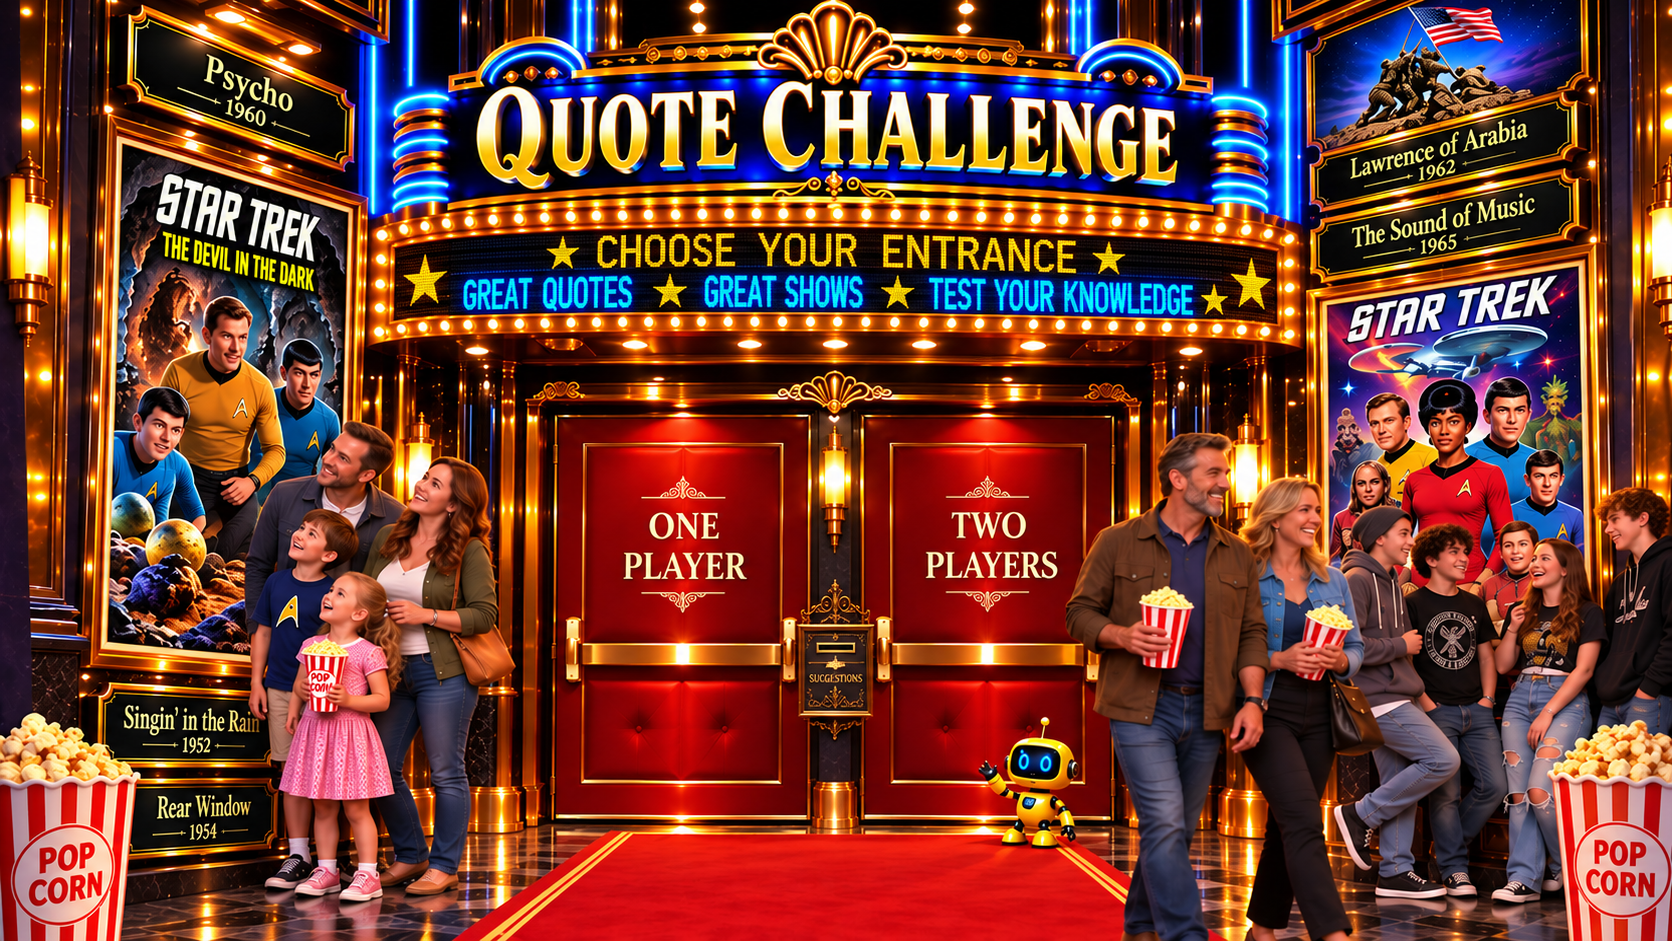
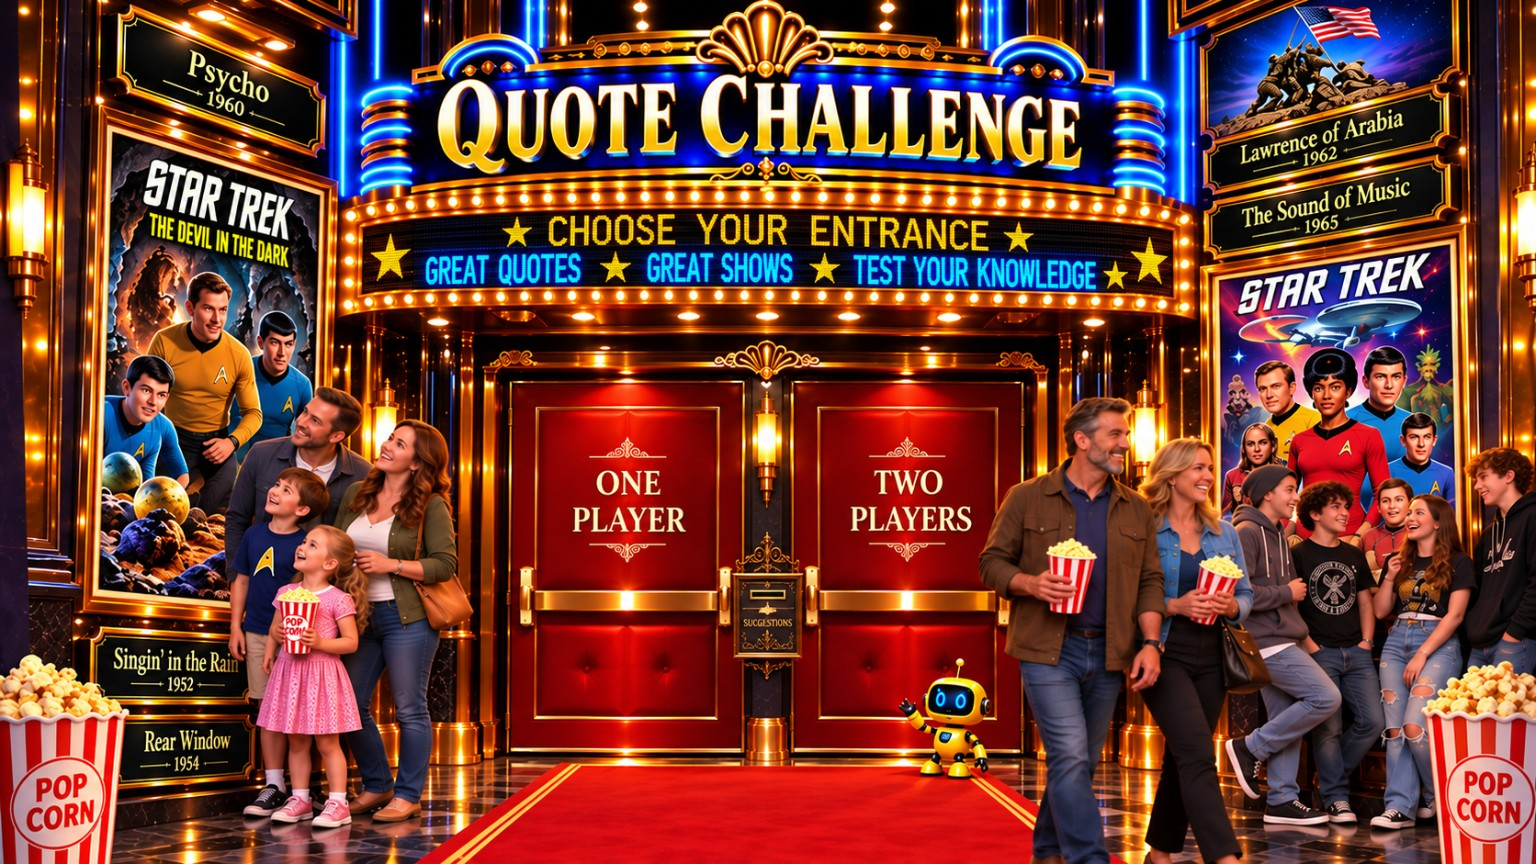
Add files via upload

diff --git a/index.html b/index.html
@@ -1,0 +1,217 @@
+<!doctype html>
+<html lang="en">
+<head>
+<meta charset="utf-8">
+<meta name="viewport" content="width=device-width,initial-scale=1,viewport-fit=cover">
+<title>Quote Challenge | Theater 6.9.1-2</title>
+<style>
+*{box-sizing:border-box}html,body{margin:0;min-height:100%;background:#03050b;color:#fff;font-family:system-ui,Arial,sans-serif}
+.theater{position:relative;width:100%;max-width:1648px;aspect-ratio:1648/928;margin:auto;background:url('theater-691-2.png') center/100% 100% no-repeat;overflow:hidden}
+/* Overlay precisely on the artwork's existing illuminated marquee */
+.marquee{position:absolute;left:24.2%;top:24.4%;width:51.8%;height:9.2%;overflow:hidden;background:linear-gradient(#090d17,#080b12);border-top:2px solid #d89524;border-bottom:2px solid #d89524;display:flex;align-items:center;mask-image:linear-gradient(to right,transparent,#000 3%,#000 97%,transparent)}
+
+.suggestions{position:absolute;left:47.3%;top:64.5%;width:5.5%;height:12.5%;border:0;background:transparent;cursor:pointer;border-radius:8px}
+.suggestions:focus-visible{outline:3px solid #fff08a;outline-offset:3px}
+.suggestions:hover{box-shadow:0 0 15px 4px #ffe08388}
+.dialog-backdrop{position:fixed;inset:0;background:#000b;display:none;align-items:center;justify-content:center;padding:16px;z-index:5}
+.dialog-backdrop.open{display:flex}
+.dialog{width:min(440px,100%);padding:24px;border:2px solid #d6a54e;border-radius:12px;background:#101b30;box-shadow:0 0 30px #e6a73a55}
+.dialog h2{margin:0 0 16px;color:#ffdf84}.dialog label{display:block;margin:12px 0 5px}.dialog textarea{width:100%;padding:10px;background:#f8f4eb;color:#151515;border-radius:5px;border:0;font:inherit}.dialog textarea{min-height:120px;resize:vertical}
+/* Four clearly separated message controls */
+.message-types,.buttons{display:flex;gap:12px;margin-top:12px;flex-wrap:wrap}
+.message-types button,.buttons button{flex:1;min-width:110px;padding:10px 12px;cursor:pointer;border:1px solid #d6a54e;border-radius:5px;font-weight:700;background:#26344c;color:#ffdf84}
+.message-types button[aria-pressed="true"]{background:#e4b45b;color:#17100b;border-color:#ffdf84}
+.buttons{justify-content:flex-end;margin-top:16px}.buttons .send{background:#e4b45b;color:#17100b}
+.message-types button:focus-visible,.buttons button:focus-visible{outline:3px solid #fff08a;outline-offset:2px}
+.help{font-size:12px;color:#d9d9d9;margin-top:12px}
+@media(max-width:600px){.marquee-track{font-size:clamp(7px,2.1vw,13px)}.marquee{border-width:1px}}
+@media(prefers-reduced-motion:reduce){.marquee-track{animation-duration:22.5s}}
+/* QUOTE CHALLENGE SCROLLING BANNER */
+.qc-banner{width:100%;overflow:hidden;background:transparent;border:2px solid transparent;border-radius:6px;padding:12px 0;color:inherit;font:bold 18px Arial,sans-serif}
+.qc-banner-text{display:inline-block;white-space:nowrap;padding-left:100%;animation:qc-scroll 45s linear infinite}
+@keyframes qc-scroll{from{transform:translateX(0)}to{transform:translateX(-100%)}}
+@media(prefers-reduced-motion:reduce){.qc-banner-text{animation:none;padding-left:0;white-space:normal;text-align:center}}
+/* Gallery Wall */
+body{padding:0;font-family:system-ui,Arial,sans-serif}
+.gallery-area{padding:40px 20px;color:inherit;font-family:Georgia,serif;background-color:#1a1512;background-image:linear-gradient(335deg,#110d0b 23px,transparent 23px),linear-gradient(155deg,#1d1815 23px,transparent 23px),linear-gradient(335deg,#110d0b 23px,transparent 23px),linear-gradient(155deg,#1d1815 23px,transparent 23px),linear-gradient(90deg,#0d0a08 10px,transparent 10px),linear-gradient(#0d0a08 10px,transparent 10px);background-size:58px 58px,58px 58px,58px 58px,58px 58px,29px 29px,29px 29px;background-position:0 2px,4px 35px,29px 31px,34px 6px,0 0;box-shadow:inset 0 0 200px rgba(0,0,0,.85)}
+.wall-gallery{display:flex;flex-wrap:wrap;justify-content:center;align-items:flex-start;gap:40px;max-width:1200px;margin:0 auto}
+.hanging-frame{position:relative;padding:12px 12px 14px;background:#111;border:8px ridge transparent;border-radius:4px;box-shadow:0 25px 35px rgba(0,0,0,.9),0 5px 15px rgba(0,0,0,.7);transform:rotate(var(--angle,0deg));transition:transform .3s ease;max-width:100%;cursor:zoom-in}
+.hanging-frame:nth-child(odd){--angle:-1.5deg}.hanging-frame:nth-child(even){--angle:1.8deg}.hanging-frame:nth-child(3n){--angle:-.7deg}
+.hanging-frame:hover,.hanging-frame:focus-visible{transform:rotate(0) scale(1.03);z-index:10}.hanging-frame:focus-visible{outline:3px solid #f5c76c;outline-offset:7px}
+.hanging-frame img{display:block;width:260px;max-width:100%;height:auto;min-height:180px;object-fit:contain;border:1px solid transparent;background:#000}
+.missing-label{display:none;padding:15px;max-width:260px;font:14px/1.5 system-ui,sans-serif;overflow-wrap:anywhere}.hanging-frame.missing{cursor:default}.hanging-frame.missing .missing-label{display:block}.hanging-frame.missing img{display:none}
+dialog.viewer{border:8px ridge transparent;border-radius:5px;background:transparent;color:white;padding:15px;width:max-content;max-width:calc(100vw - 24px);max-height:calc(100vh - 24px);box-shadow:0 20px 50px #000}
+dialog.viewer::backdrop{background:rgba(0,0,0,.9)}.viewer img{display:block;max-width:min(88vw,1100px);max-height:76vh;object-fit:contain}
+.viewer .close{display:block;margin:0 0 12px auto;padding:7px 12px;background:#292019;border:1px solid transparent;color:#fff;font-size:17px;cursor:pointer}
+@media(max-width:600px){.gallery-area{padding:28px 16px}.wall-gallery{gap:28px}.hanging-frame img{width:min(260px,72vw)}}
+@media(prefers-reduced-motion:reduce){.hanging-frame{transition:none}}
+/* Invisible picture frames: photographs and enlargement still work. */
+.hanging-frame{padding:0;background:transparent;border:0;box-shadow:none;border-radius:0;transform:none}
+.hanging-frame:hover,.hanging-frame:focus-visible{transform:none}
+.hanging-frame img{border:0;background:transparent}
+
+/* Frame-free gallery: no visible frames, including hover and enlarged view. */
+.hanging-frame{padding:0!important;background:transparent!important;border:0!important;border-radius:0!important;box-shadow:none!important;transform:none!important}
+.hanging-frame:hover,.hanging-frame:focus-visible{transform:none!important;box-shadow:none!important;outline:none!important}
+.hanging-frame img{border:0!important;background:transparent!important}
+dialog.viewer{border:0!important;border-radius:0!important;box-shadow:none!important;background:transparent!important;padding:0!important}
+.viewer img{border:0!important;box-shadow:none!important;background:transparent!important}
+
+/* Top marquee: angled color waves and subtle heat shimmer */
+
+.marquee{isolation:isolate;display:grid;place-items:center;background:radial-gradient(ellipse at center,#17356d,#07132e 75%);box-shadow:0 0 24px #e5b84955,inset 0 0 20px #000}
+/* Very subtle, continuously drifting road-heat shimmer behind the lettering. */
+.marquee::after{content:"";position:absolute;inset:-28%;z-index:0;pointer-events:none;opacity:.27;background:repeating-linear-gradient(101deg,transparent 0 30px,#ffc76a12 37px,transparent 51px 82px),radial-gradient(ellipse at 38% 65%,#ff8b301f,transparent 53%),radial-gradient(ellipse at 72% 38%,#a74bff20,transparent 55%);filter:blur(11px);animation:heatDrift 8s ease-in-out infinite alternate;transform-origin:center}
+@keyframes heatDrift{0%{transform:translate(-1.5%,2%) skewX(-2deg) scale(1.02);filter:blur(12px)}50%{transform:translate(1%,-1.5%) skewX(2deg) scale(1.06);filter:blur(8px)}100%{transform:translate(-.5%,1%) skewX(-1deg) scale(1.03);filter:blur(13px)}}
+.marquee::before{content:"";position:absolute;inset:5px;border:1px solid #ffe5a588;border-radius:9px;pointer-events:none;z-index:5}
+.wave-message{position:relative;z-index:2;text-align:center;padding:0 6px;font-size:clamp(9px,2.5vw,39px);font-weight:bold;letter-spacing:.015em;color:#ff3030;text-shadow:0 2px 2px #300000,0 0 5px #ff8a00,0 0 13px #ff6500,0 0 23px #ff4500;opacity:1;transition:opacity .12s}
+.wave-message.hide{opacity:0}
+.wave{position:absolute;z-index:3;top:-12%;height:124%;width:85%;pointer-events:none;opacity:0;filter:drop-shadow(0 0 14px #48caffaa);background:linear-gradient(90deg,transparent 0%,#7130e6c9 16%,#ec366ae8 36%,#ffc444f5 59%,#2cbbffee 82%,transparent 100%)}
+/* Right-moving wave has a / leading edge; left-moving wave has a \ leading edge. */
+.wave.run-right{clip-path:polygon(0 0,100% 0,67% 100%,0 100%);animation:sweepRight 2.2s ease-in-out both}
+.wave.run-left{clip-path:polygon(0 0,100% 0,100% 100%,33% 100%);animation:sweepLeft 2.2s ease-in-out both;background:linear-gradient(270deg,transparent 0%,#7130e6c9 16%,#ec366ae8 36%,#ffc444f5 59%,#2cbbffee 82%,transparent 100%)}
+@keyframes sweepRight{0%{left:0;transform:translateX(-110%);opacity:0}12%{opacity:1}85%{opacity:1}100%{left:100%;transform:translateX(5%);opacity:0}}
+@keyframes sweepLeft{0%{right:0;transform:translateX(110%);opacity:0}12%{opacity:1}85%{opacity:1}100%{right:100%;transform:translateX(-5%);opacity:0}}
+@media(prefers-reduced-motion:reduce){.wave{display:none}.wave-message{transition:none}.marquee::after{animation:none}}
+
+/* Interactive theater entrances and hidden bonuses */
+.door-link{position:absolute;display:block;top:43.3%;height:43.8%;z-index:2;cursor:pointer;border-radius:5px}
+.door-one{left:32.5%;width:14.4%}.door-two{left:52.9%;width:13.8%}
+.door-link:focus-visible{outline:3px solid #fff39b;outline-offset:2px}
+.freddy{position:absolute;left:44.5%;bottom:6.4%;width:8.3%;height:18%;z-index:3;cursor:pointer;background:none;border:0;padding:0}
+.freddy img{position:absolute;bottom:0;left:50%;transform:translateX(-50%);width:100%;height:100%;object-fit:contain;object-position:center bottom;filter:drop-shadow(0 5px 3px #0009)}
+.freddy .standing{opacity:0}.freddy:hover .standing,.freddy:focus-visible .standing,.freddy:active .standing{opacity:1}
+.freddy:hover .sitting,.freddy:focus-visible .sitting,.freddy:active .sitting{opacity:0}
+.secret-portrait{position:absolute;left:18.7%;top:37.8%;width:4.2%;height:10.6%;z-index:2;opacity:.48;filter:brightness(.58) sepia(.4);border:0;background:transparent;padding:0;cursor:pointer;transform:rotate(-5deg)}
+.secret-portrait img{width:100%;height:100%;object-fit:cover}.secret-portrait:focus-visible{outline:2px solid #fff}
+.robot-glow{position:absolute;left:60.15%;top:80.5%;width:2.15%;height:2.5%;z-index:3;pointer-events:auto;cursor:pointer;border-radius:50%;background:transparent}
+.robot-glow::after{content:'';position:absolute;inset:-35%;border-radius:50%;opacity:0;transition:opacity .2s;background:radial-gradient(ellipse,#a7faffbb 5%,#00eaff77 33%,transparent 72%);filter:blur(4px)}
+.robot-glow:hover::after,.robot-glow:focus-visible::after{opacity:1}
+@media(prefers-reduced-motion:reduce){.robot-glow::after{transition:none}}
+</style>
+</head>
+<body>
+<main class="theater" aria-label="Quote Challenge theater entrance">
+  <div class="marquee" aria-label="Animated Quote Challenge welcome messages"><div class="wave-message" id="waveMessage">WELCOME TO QUOTE CHALLENGE</div><div class="wave" id="wave" aria-hidden="true"></div></div>
+
+  <a class="door-link door-one" href="one-player.html" aria-label="Enter one-player game" title="One Player"></a>
+  <a class="door-link door-two" href="two-player.html" aria-label="Enter two-player game" title="Two Players"></a>
+  <a class="secret-portrait" href="bonus.html" aria-label="Secret bonus room"><img src="secret-portrait.png" alt=""></a>
+  <button class="freddy" type="button" aria-label="Freddy the dog, hover to see him stand" title="Freddy"><img class="sitting" src="freddy-sitting.png" alt=""><img class="standing" src="freddy-standing.png" alt=""></button>
+  <span class="robot-glow" tabindex="0" role="img" aria-label="Robot with glowing eyes on hover"></span>
+  <button class="suggestions" id="openSuggestions" aria-label="Open suggestions and bug report form" title="Suggestions and bug reports"></button>
+</main>
+<div class="dialog-backdrop" id="backdrop">
+  <section class="dialog" role="dialog" aria-modal="true" aria-labelledby="dialogTitle">
+    <h2 id="dialogTitle">Quote Challenge Suggestions</h2>
+    <form id="suggestionForm">
+      <label>What would you like to send?</label>
+      <div class="message-types" role="group" aria-label="Message type">
+        <button type="button" id="typeBug" aria-pressed="false">Bug Report</button>
+        <button type="button" id="typeSuggestion" aria-pressed="true">Suggestions</button>
+      </div>
+      <input type="hidden" id="subject" value="Suggestions">
+      <label for="message">Your message</label>
+      <textarea id="message" required placeholder="Tell us what you found or what you'd like to see..."></textarea>
+      <div class="buttons"><button class="send" type="submit">Send</button><button type="button" id="closeSuggestions">Close</button></div>
+    </form>
+    <p class="help">Opens your email app with the subject and message filled in. No message is sent until you send it from your email app.</p>
+  </section>
+</div>
+<div class="qc-banner"><div class="qc-banner-text">🎬 QUOTE CHALLENGE • 💙 UNDER CONSTRUCTION • WE ARE WORKING HARD TO BRING YOU EXCITING NEW ADVENTURES! 💙 🎬</div></div>
+<section class="gallery-area">
+<main class="wall-gallery" aria-label="Framed picture gallery">
+  <div class="hanging-frame" tabindex="0" role="button" aria-label="Enlarge gallery picture 1"><img src="trek-crew.jpg" alt="Gallery picture 1" loading="lazy"><span class="missing-label"></span></div>
+  <div class="hanging-frame" tabindex="0" role="button" aria-label="Enlarge gallery picture 2"><img src="CL85106.jpg" alt="Gallery picture 2" loading="lazy"><span class="missing-label"></span></div>
+  <div class="hanging-frame" tabindex="0" role="button" aria-label="Enlarge gallery picture 3"><img src="IMG_20260909_203401795_HDR.jpg" alt="Gallery picture 3" loading="lazy"><span class="missing-label"></span></div>
+  <div class="hanging-frame" tabindex="0" role="button" aria-label="Enlarge gallery picture 4"><img src="harry-mudd.png" alt="Gallery picture 4" loading="lazy"><span class="missing-label"></span></div>
+  <div class="hanging-frame" tabindex="0" role="button" aria-label="Enlarge gallery picture 5"><img src="IMG_20260913_064817432~2.jpg" alt="Gallery picture 5" loading="lazy"><span class="missing-label"></span></div>
+  <div class="hanging-frame" tabindex="0" role="button" aria-label="Enlarge gallery picture 6"><img src="gemini_remix_20261009_202400.jpg" alt="Gallery picture 6" loading="lazy"><span class="missing-label"></span></div>
+</main>
+</section>
+<dialog class="viewer" aria-label="Enlarged gallery picture">
+  <button class="close" type="button" aria-label="Close enlarged picture">Beam me up ×</button>
+  <img alt="Enlarged gallery picture">
+</dialog>
+<script>
+// EDIT THESE THREE TEXT VALUES to change the top marquee messages.
+
+const slides=[
+  {text:'WELCOME TO QUOTE CHALLENGE',direction:'right',hold:4000},
+  {text:'ADVENTURE AWAITS',direction:'left',hold:4000},
+  {text:'BY JTAC6769',direction:'right',hold:7000}
+];
+const waveMessage=document.getElementById('waveMessage');
+const wave=document.getElementById('wave');
+const sleep=ms=>new Promise(resolve=>setTimeout(resolve,ms));
+async function start(){
+  let index=0;
+  while(true){
+    const slide=slides[index];
+    wave.className='wave';
+    void wave.offsetWidth;
+    wave.classList.add(slide.direction==='right'?'run-right':'run-left');
+    await sleep(900);
+    waveMessage.classList.add('hide');
+    await sleep(150);
+    waveMessage.textContent=slide.text;
+    waveMessage.classList.remove('hide');
+    await sleep(1150);
+    await sleep(slide.hold);
+    index=(index+1)%slides.length;
+  }
+}
+start();
+
+
+
+const backdrop=document.getElementById('backdrop');
+const openBtn=document.getElementById('openSuggestions');
+const typeBug=document.getElementById('typeBug');
+const typeSuggestion=document.getElementById('typeSuggestion');
+function chooseType(type){
+  const bug=type==='Bug Report';
+  document.getElementById('subject').value=type;
+  typeBug.setAttribute('aria-pressed',String(bug));
+  typeSuggestion.setAttribute('aria-pressed',String(!bug));
+}
+typeBug.addEventListener('click',()=>chooseType('Bug Report'));
+typeSuggestion.addEventListener('click',()=>chooseType('Suggestions'));
+function closeDialog(){backdrop.classList.remove('open');openBtn.focus()}
+openBtn.addEventListener('click',()=>{backdrop.classList.add('open');typeSuggestion.focus()});
+document.getElementById('closeSuggestions').addEventListener('click',closeDialog);
+backdrop.addEventListener('click',e=>{if(e.target===backdrop)closeDialog()});
+document.addEventListener('keydown',e=>{if(e.key==='Escape'&&backdrop.classList.contains('open'))closeDialog()});
+document.getElementById('suggestionForm').addEventListener('submit',e=>{
+ e.preventDefault();
+ const subject='Quote Challenge - '+document.getElementById('subject').value;
+ const message=document.getElementById('message').value;
+ window.location.href='mailto:qcchallenger67@gmail.com?subject='+encodeURIComponent(subject)+'&body='+encodeURIComponent(message);
+});
+const viewer=document.querySelector('.viewer');
+const enlargedImage=viewer.querySelector('img');
+const closeButton=viewer.querySelector('.close');
+let lastFrame=null;
+document.querySelectorAll('.hanging-frame').forEach(frame=>{
+ const photo=frame.querySelector('img');
+ const showMissing=()=>{
+  frame.classList.add('missing');
+  frame.querySelector('.missing-label').textContent='Picture not found: '+photo.getAttribute('src');
+  frame.removeAttribute('role');frame.removeAttribute('tabindex');frame.removeAttribute('aria-label');
+ };
+ photo.addEventListener('error',showMissing);
+ if(photo.complete&&photo.naturalWidth===0)showMissing();
+ const open=()=>{
+  if(frame.classList.contains('missing'))return;
+  lastFrame=frame;enlargedImage.src=photo.src;enlargedImage.alt=photo.alt;
+  viewer.showModal();closeButton.focus();
+ };
+ frame.addEventListener('click',open);
+ frame.addEventListener('keydown',e=>{if(e.key==='Enter'||e.key===' '){e.preventDefault();open()}});
+});
+closeButton.addEventListener('click',()=>viewer.close());
+viewer.addEventListener('click',e=>{if(e.target===viewer)viewer.close()});
+viewer.addEventListener('close',()=>{enlargedImage.removeAttribute('src');if(lastFrame)lastFrame.focus()});
+</script>
+</body>
+</html>
